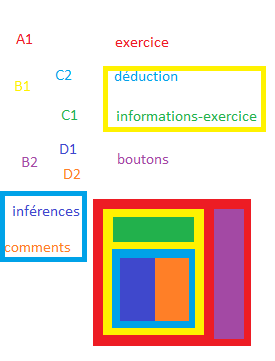
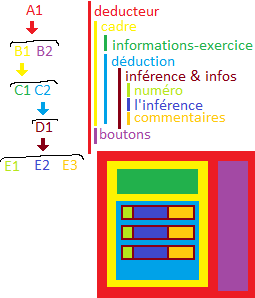
j'ai terminé l'organisation de l'affichage d'une déduction, il faut maintenant coder ce qui la gère

diff --git a/src/components/Calcul Tools/Deduction.js b/src/components/Calcul Tools/Deduction.js
@@ -1,103 +1,3 @@
-import React, { Component, Fragment } from "react";
-import MakeInference from "./MakeInference";
-import Exercices from "../../data/Exercices.json";
-import ShowInformationsExercise from "./ShowInformationsExercise";
-import DetermineTruthOfPropositions from "./DetermineTruthOfPropositions";
-// Cette classe est appelée dans Calcul des propositions
-class Deduction extends Component {
-  state = {
-    inferenceNumber: 1,
-    content: "inférence",
-    isDisplayed: false,
-    currentExercise: {}
-  };
-
-  renderMakeInference() {
-    if (this.state.isDisplayed) {
-      return (
-        <MakeInference
-          infNum={this.state.inferenceNumber}
-          content={this.state.content}
-        />
-      );
-    }
-    return null;
-  }
-
-  displaySomething = () => {
-    // On rend cette fonction accessible depuis n'importe où dans la classe, grâce à "= () =>". Sans ces caractères, la fonction serait comme en autarcie.
-    this.setState({ isDisplayed: true });
-  };
-
-  whichExercise = () => {
-    this.setState({ currentExercise: { ...Exercices[0] } });
-    console.log(this.state.currentExercise);
-    return this.state.currentExercise;
-  };
-
-  render() {
-    // boucle for sans doute à supprimer, en dessous (je l'ai faite juste pour faciliter un premier affichage d'exercice)
-    let exemplededuction = ["1. p∧q", "2. q", "3. q⊃~r", "4. ~r"];
-    let exemplecommentaire = ["reit", "1, ∧e", "reit", "2, 3, ⊃e"];
-    let stringdeduction = "";
-    let stringcommentaire = "";
-    for (let i = 0; i < 4; i++) {
-      stringdeduction =
-        stringdeduction +
-        (
-          <Fragment>
-            {exemplededuction[i].toString()}
-            <br />
-          </Fragment>
-        );
-      stringcommentaire =
-        stringcommentaire +
-        (
-          <Fragment>
-            {exemplecommentaire[i].toString()}
-            <br />
-          </Fragment>
-        );
-    }
-    return (
-      <Fragment>
-        <div className="exercise">
-          <section
-            id="infos-and-deduction-itself"
-            style={{ border: "10px solid yellow" }}
-          >
-            {/*dans la ligne en dessous je mets de manière temporaire l'exercice 0, pour tester*/}
-            <ShowInformationsExercise
-              premisses={Exercices[0].premisses}
-              conclusion={Exercices[0].conclusion}
-            />
-            <div className="deduction">
-              <div id="listInferences">{stringdeduction}</div>
-              <div id="listCommentaires">{stringcommentaire}</div>
-            </div>
-          </section>
-          <section className="informationsOnCurrentExercice">
-            <button
-              className="deduction-button"
-              onClick={this.displaySomething}
-            >
-              {this.state.content}
-            </button>
-            {this.renderMakeInference()}
-            {console.log(Exercices[0].propositionsImplied)}
-            <DetermineTruthOfPropositions
-              exerciseSent={Exercices[0].propositionsImplied}
-            />;
-          </section>
-        </div>
-        <img
-          style={{ width: "200px", height: "270px" }}
-          src="https://i.imgur.com/3TW6KTY.png"
-          alt=""
-        />
-      </Fragment>
-    );
-  }
-}
+import Deduction from "./Deduction";
 
 export default Deduction;

diff --git a/src/components/Calcul Tools/Deducer.js b/src/components/Calcul Tools/Deducer.js
@@ -1,0 +1,87 @@
+import React, { Component, Fragment } from "react";
+import MakeInference from "./MakeInference";
+import Exercices from "../../data/Exercices.json";
+import ShowInformationsExercise from "./ShowInformationsExercise";
+import DetermineTruthOfPropositions from "./DetermineTruthOfPropositions";
+// Cette classe est appelée dans Calcul des propositions. Elle affiche la totalité des composants nécessaires à un
+class Deducer extends Component {
+  state = {
+    inferenceNumber: 1,
+    content: "inférence",
+    isDisplayed: false,
+    currentExercise: {}
+  };
+
+  renderMakeInference() {
+    if (this.state.isDisplayed) {
+      return (
+        <MakeInference
+          infNum={this.state.inferenceNumber}
+          content={this.state.content}
+        />
+      );
+    }
+    return null;
+  }
+
+  displaySomething = () => {
+    // On rend cette fonction accessible depuis n'importe où dans la classe, grâce à "= () =>". Sans ces caractères, la fonction serait comme en autarcie.
+    this.setState({ isDisplayed: true });
+  };
+
+  whichExercise = () => {
+    this.setState({ currentExercise: { ...Exercices[0] } });
+    console.log(this.state.currentExercise);
+    return this.state.currentExercise;
+  };
+
+  render() {
+    return (
+      <Fragment>
+        <div className="exercise">
+          <section
+            id="infos-and-deduction-itself"
+            style={{ border: "10px solid yellow" }}
+          >
+            {/*dans la ligne en dessous je mets de manière temporaire l'exercice 0, pour tester*/}
+            <ShowInformationsExercise
+              premisses={Exercices[0].premisses}
+              conclusion={Exercices[0].conclusion}
+            />
+            <div className="deduction">
+              <div className="inferenceGlobal {">
+                <div className="inferenceNumber">
+                  {"exemple de numéro d'inférence"}
+                </div>
+                <div className="inferenceItself">{"exemple d'inférence"}</div>
+                <div className="inferenceCommentary">
+                  {"exemple de commentaire d'inférence"}
+                </div>
+              </div>
+            </div>
+          </section>
+          <section className="informationsOnCurrentExercice">
+            <button
+              className="deduction-button"
+              onClick={this.displaySomething}
+            >
+              {this.state.content}
+            </button>
+            {this.renderMakeInference()}
+            {console.log(Exercices[0].propositionsImplied)}
+            <DetermineTruthOfPropositions
+              exerciseSent={Exercices[0].propositionsImplied}
+            />;
+          </section>
+        </div>
+        <img
+          style={{ width: "300px", height: "400px" }}
+          src="https://i.imgur.com/Tou6J07.png"
+          alt=""
+        />
+      </Fragment>
+    );
+  }
+}
+
+export default Deducer;

diff --git a/src/css/Deduction.css b/src/css/Deduction.css
@@ -3,7 +3,7 @@
   flex-direction: column;
   justify-content: space-between;
   align-items: center;
-  height: 500px;
+  height: 800px;
   border: 3px white solid;
 }
 
@@ -41,7 +41,7 @@
   display: "flex";
   flex-direction: "column";
   align-content: center;
-  border: 2px purple solid;
+  border: 3px white solid;
 }
 
 #conclusion {
@@ -49,17 +49,5 @@
   display: "flex";
   flex-direction: "column";
   align-content: center;
-  border: 2px purple solid;
-}
-
-#listInferences {
-  border: 10px #3f48cc solid;
-  display: flex;
-  justify-content: column;
-}
-
-#listCommentaires {
-  border: 10px #ff7f27 solid;
-  display: flex;
-  justify-content: column;
+  border: 3px white solid;
 }

diff --git a/src/components/Pages/CalculDesPropositions.js b/src/components/Pages/CalculDesPropositions.js
@@ -1,14 +1,14 @@
 import React from "react";
 import Linker from "../Linker";
 import Home from "./Home";
-import Deduction from "../Calcul Tools/Deduction";
+import Deducer from "../Calcul Tools/Deducer";
 import MakeInference from "../Calcul Tools/MakeInference";
 
 const CalculDesPropositions = () => {
   return (
     <main className="main-calcul">
       <h2>Calcul des propositions</h2>
-      <Deduction />
+      <Deducer />
       <Linker
         link="/"
         path="/"

diff --git a/src/css/inference.css b/src/css/inference.css
@@ -1,0 +1,23 @@
+.inferenceGlobal {
+  border: 10px #880015 solid;
+  display: flex;
+  justify-content: column;
+}
+
+.inferenceNumber {
+  border: 10px #22b14c solid;
+  display: flex;
+  justify-content: column;
+}
+
+.inferenceItself {
+  border: 10px #3f48cc solid;
+  display: flex;
+  justify-content: column;
+}
+
+.inferenceCommentary {
+  border: 10px #ff7f27 solid;
+  display: flex;
+  justify-content: column;
+}

diff --git a/src/App.js b/src/App.js
@@ -4,6 +4,7 @@ import "./css/app.css";
 import "./css/buttonMenu.css";
 import "./css/color.css";
 import "./css/deduction.css";
+import "./css/inference.css";
 // Importation de mes composants
 import { BrowserRouter as Router, Route, Link } from "react-router-dom";
 // Importation des pages
